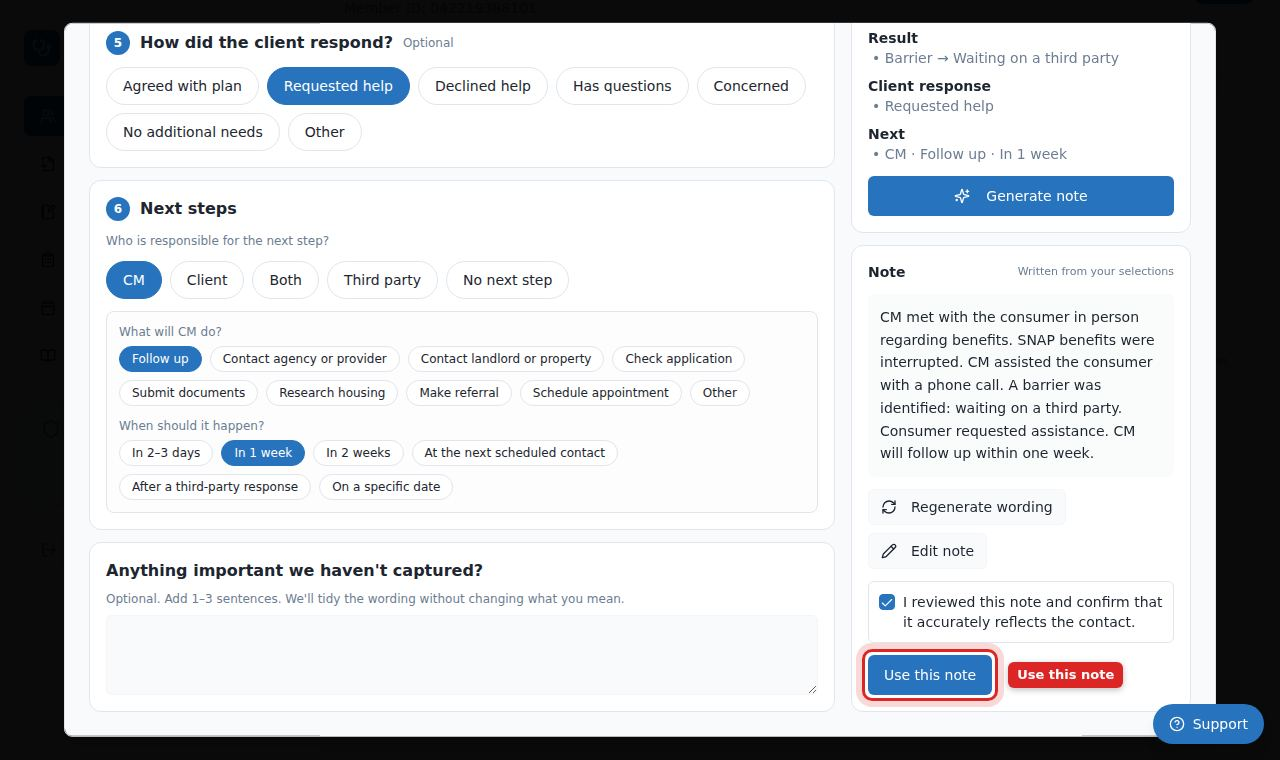
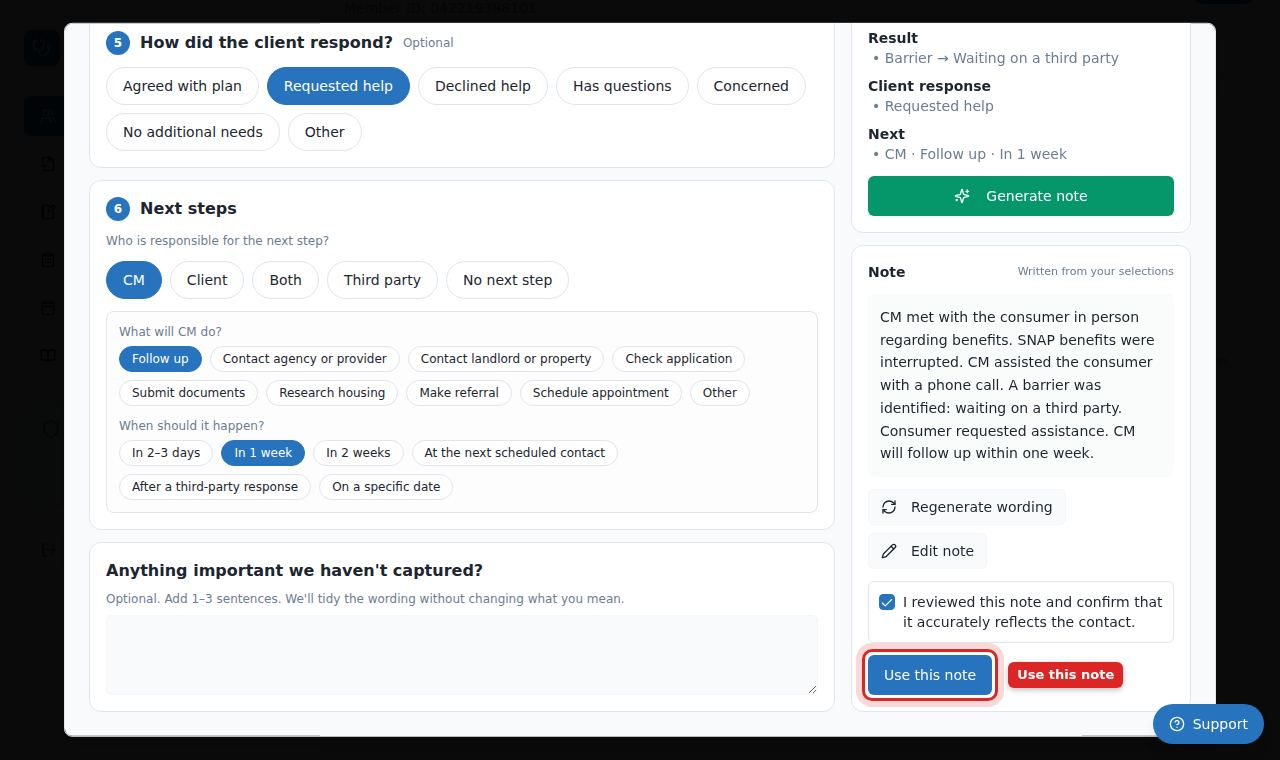
Clinical Notes: green Generate note button
Claude-Session: https://claude.ai/code/session_012TZTkqWFZbcufo1uEC7hhK

Changed region(s): [[0.6562, 0.2118, 0.9375, 0.3026]]

diff --git a/src/components/clinicalNotes/NoteComposer.tsx b/src/components/clinicalNotes/NoteComposer.tsx
@@ -673,7 +673,7 @@ export const NoteComposer: React.FC<Props> = ({ method, initial, useLabel, onUse
               ))}
             </div>
           )}
-          <Button className="mt-3 w-full" disabled={!canGenerate(draft) || working} onClick={generate}>
+          <Button className="mt-3 w-full bg-emerald-600 text-white hover:bg-emerald-700" disabled={!canGenerate(draft) || working} onClick={generate}>
             {working ? <Loader2 className="mr-2 h-4 w-4 animate-spin" /> : <Sparkles className="mr-2 h-4 w-4" />}
             {note ? (stale ? 'Generate again' : 'Generate note') : 'Generate note'}
           </Button>
